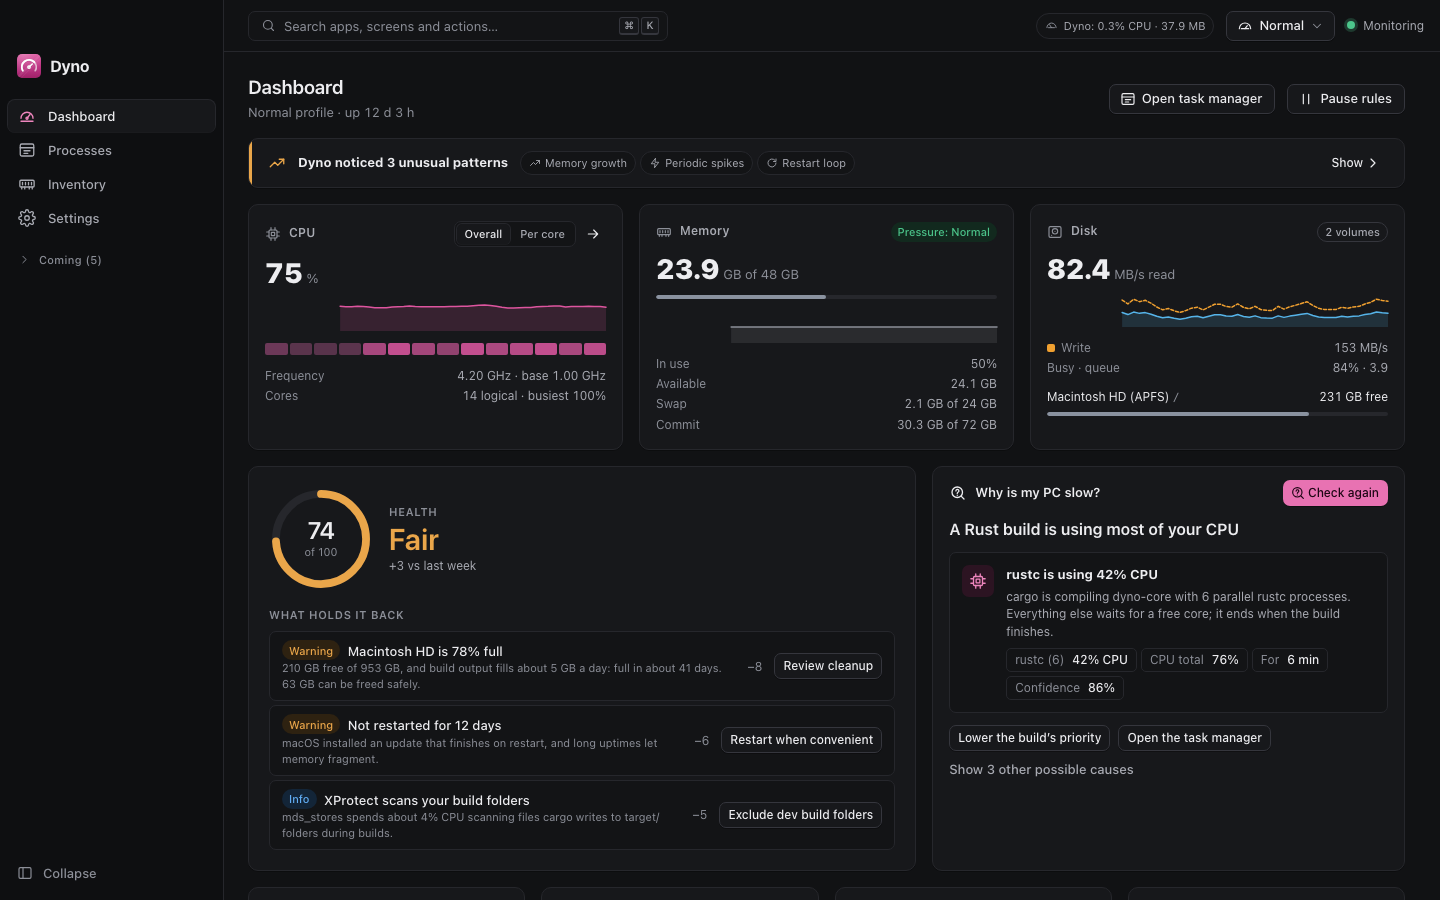
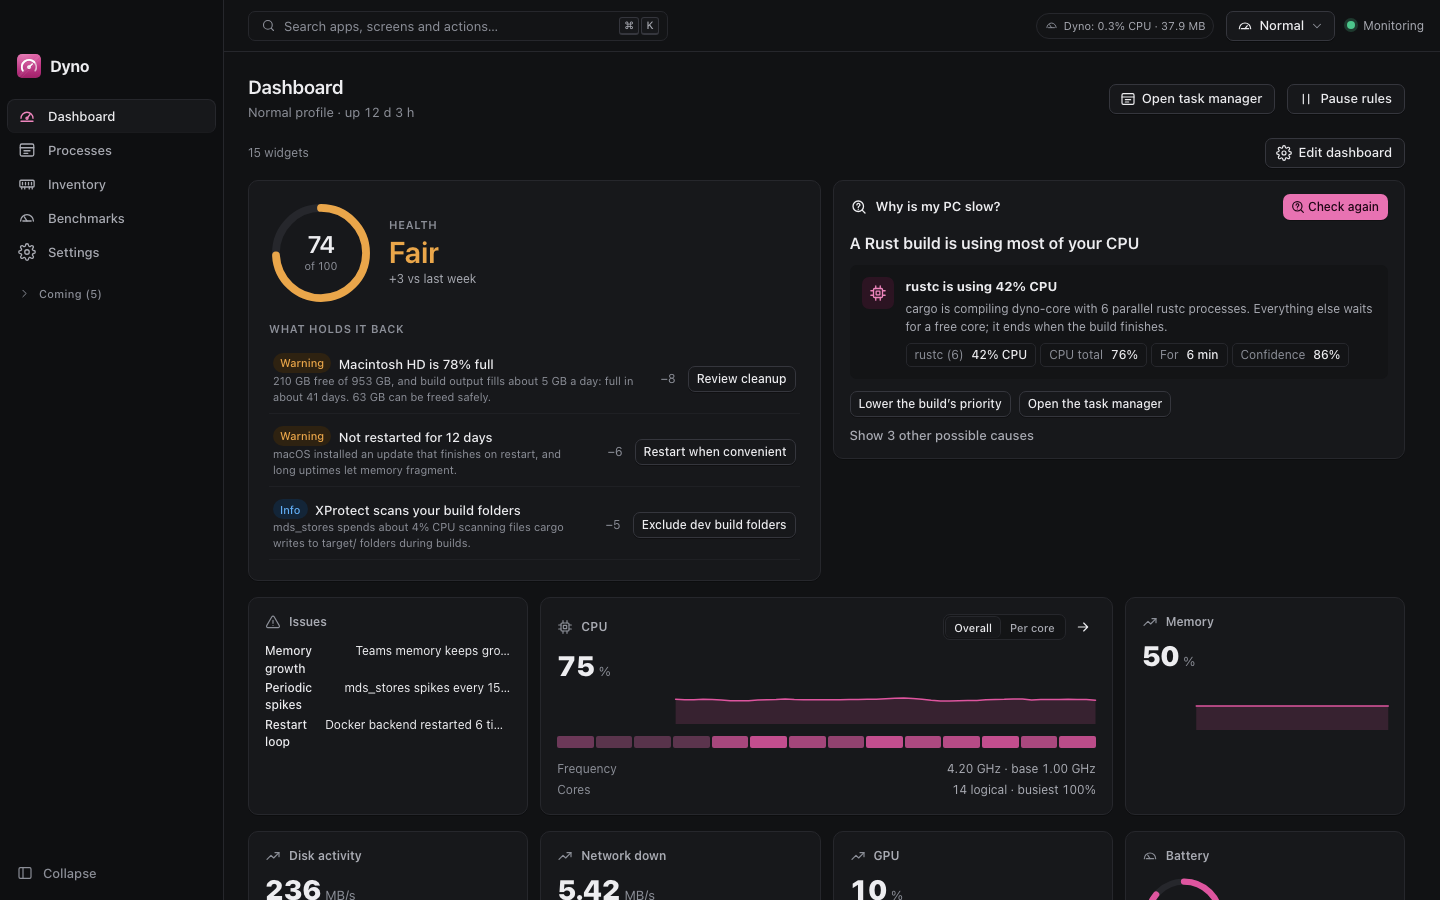
fix(ui): own-card widgets keep their semantics; health widget shows its reasons from medium up

diff --git a/apps/dyno/app/src/app/features/widgets/widget-view.ts b/apps/dyno/app/src/app/features/widgets/widget-view.ts
@@ -11,6 +11,7 @@ import { LiveStore } from '../../state/live.store';
 import { ANOMALY_LABEL } from '../../shared/labels';
 import type { Widget, WidgetKind } from '../../core/api.types';
 import { AnimatedNumber } from './animated-number';
+import { HealthHero } from '../dashboard/health-hero';
 import { CpuTile } from '../dashboard/tiles';
 import { DiagnosisCard } from '../dashboard/diagnosis-card';
 import { EventsFeed } from '../dashboard/events-feed';
@@ -41,9 +42,9 @@ const ICON: Record<WidgetKind, IconName> = {
  */
 @Component({
   selector: 'dy-widget',
-  imports: [Icon, Ring, Sparkline, AnimatedNumber, CpuTile, DiagnosisCard, EventsFeed, HistoryPanel, ConsumersPanel, DiskTrendPanel],
+  imports: [Icon, Ring, Sparkline, AnimatedNumber, HealthHero, CpuTile, DiagnosisCard, EventsFeed, HistoryPanel, ConsumersPanel, DiskTrendPanel],
   changeDetection: ChangeDetectionStrategy.OnPush,
-  host: { role: 'group', '[attr.aria-label]': 'title()', '[attr.data-kind]': 'widget().kind', '[class.own-card]': 'ownCard()' },
+  host: { '[attr.role]': 'ownCard() ? null : "group"', '[attr.aria-label]': 'ownCard() ? null : title()', '[attr.data-kind]': 'widget().kind', '[class.own-card]': 'ownCard()' },
   template: `
     @if (!ownCard()) {
     <header>
@@ -115,6 +116,9 @@ const ICON: Record<WidgetKind, IconName> = {
       @case ('consumers') { <dy-consumers-panel /> }
       @case ('diskTrend') { <dy-disk-trend-panel /> }
       @case ('health') {
+        @if (widget().size !== 's') {
+          <dy-health-hero />
+        } @else {
         @if (health.report(); as r) {
           <div class="ringrow">
             <dy-ring [value]="r.score" [tone]="gradeTone()" [label]="'Health score ' + r.score" style="--ring-size: 84px"><span class="rn num">{{ round(r.score) }}</span></dy-ring>
@@ -122,6 +126,7 @@ const ICON: Record<WidgetKind, IconName> = {
           </div>
         } @else {
           <p class="note">{{ health.reportError()?.message ?? 'Reading the health score…' }}</p>
+        }
         }
       }
     }
@@ -158,7 +163,7 @@ export class WidgetView {
 
   protected readonly title = computed(() => (this.widget().kind === 'topProcesses' ? `Top apps by ${metricLabel(this.widget().metric).toLowerCase()}` : PANEL_KINDS.includes(this.widget().kind) ? KIND_LABEL[this.widget().kind] : metricLabel(this.widget().metric)));
   /** The panel kinds are cards of their own (they bring header, loading and error states). */
-  protected readonly ownCard = computed(() => ['cpu', 'diagnosis', 'events', 'history', 'consumers', 'diskTrend'].includes(this.widget().kind));
+  protected readonly ownCard = computed(() => ['cpu', 'diagnosis', 'events', 'history', 'consumers', 'diskTrend'].includes(this.widget().kind) || (this.widget().kind === 'health' && this.widget().size !== 's'));
   protected readonly icon = computed(() => ICON[this.widget().kind]);
   protected readonly reading = computed(() => readMetric(this.widget().metric, this.live.system()));
   protected readonly percent = computed(() => this.reading().percent !== null);

diff --git a/apps/dyno/app/src/app/features/widgets/widgets-ui.spec.ts b/apps/dyno/app/src/app/features/widgets/widgets-ui.spec.ts
@@ -69,19 +69,19 @@ describe('dy-widget-board', () => {
     const f = TestBed.createComponent(WidgetBoard);
     f.detectChanges();
     const el = f.nativeElement as HTMLElement;
-    expect(el.querySelectorAll('dy-widget')).toHaveLength(16);
+    expect(el.querySelectorAll('dy-widget')).toHaveLength(15);
     [...el.querySelectorAll('button')].find((b) => b.textContent?.includes('Edit dashboard'))!.click();
     f.detectChanges();
-    expect(el.querySelectorAll('.edit').length).toBe(16);
+    expect(el.querySelectorAll('.edit').length).toBe(15);
     [...el.querySelectorAll('button')].find((b) => b.textContent?.includes('Add widget'))!.click();
     f.detectChanges();
     expect(el.querySelectorAll('.gtile')).toHaveLength(14);
     (el.querySelectorAll('.gtile')[2] as HTMLButtonElement).click();
     f.detectChanges();
-    expect(el.querySelectorAll('dy-widget')).toHaveLength(17);
+    expect(el.querySelectorAll('dy-widget')).toHaveLength(16);
     (el.querySelector('button[aria-label="Remove widget"]') as HTMLButtonElement).click();
     f.detectChanges();
-    expect(el.querySelectorAll('dy-widget')).toHaveLength(16);
+    expect(el.querySelectorAll('dy-widget')).toHaveLength(15);
     (el.querySelectorAll('.seg button')[2] as HTMLButtonElement).click();
     f.detectChanges();
     expect(TestBed.inject(DashboardLayoutStore).dirty()).toBe(true);
@@ -103,10 +103,10 @@ describe('dy-widget-board presets', () => {
     f.detectChanges();
     (el.querySelector('button[aria-label="Remove widget"]') as HTMLButtonElement).click();
     f.detectChanges();
-    expect(el.querySelectorAll('dy-widget')).toHaveLength(15);
+    expect(el.querySelectorAll('dy-widget')).toHaveLength(14);
     click('Reset to default');
     f.detectChanges();
-    expect(el.querySelectorAll('dy-widget')).toHaveLength(16);
+    expect(el.querySelectorAll('dy-widget')).toHaveLength(15);
     (el.querySelector('button[aria-label="Remove widget"]') as HTMLButtonElement).click();
     f.detectChanges();
     click('Save as preset');
@@ -120,7 +120,7 @@ describe('dy-widget-board presets', () => {
     await f.whenStable();
     f.detectChanges();
     const presets = TestBed.inject(DashboardLayoutStore).presets();
-    expect(presets.find((p) => p.name === 'Lean')?.widgets).toHaveLength(15);
+    expect(presets.find((p) => p.name === 'Lean')?.widgets).toHaveLength(14);
     expect(el.querySelector('.edit')).toBeNull();
   });
 });

diff --git a/apps/dyno/app/e2e/flows.spec.ts b/apps/dyno/app/e2e/flows.spec.ts
@@ -53,7 +53,7 @@ test.describe('dashboard', () => {
   test('shows live tiles, history and the diagnosis on request', async ({ page }) => {
     await page.goto(url());
     await expect(page.getByRole('group', { name: 'CPU', exact: true })).toBeVisible();
-    await expect(page.getByRole('group', { name: 'Memory' })).toBeVisible();
+    await expect(page.getByRole('group', { name: 'Memory', exact: true })).toBeVisible();
     await expect(page.locator('dy-chart canvas').first()).toBeVisible();
     await page.getByRole('button', { name: 'Check now' }).click();
     await expect(page.getByText('A Rust build is using most of your CPU')).toBeVisible();
@@ -63,9 +63,9 @@ test.describe('dashboard', () => {
 
   test('a machine without a battery or sensors says so with the reason', async ({ page }) => {
     await page.goto(url('/', '&mock=desktop'));
-    const battery = page.getByRole('group', { name: 'Battery' });
-    await expect(battery.getByText('Not available on this PC')).toBeVisible();
-    await expect(battery.getByText('no battery')).toBeVisible();
+    const battery = page.getByRole('group', { name: 'Battery', exact: true });
+    await expect(battery.getByText('Not available').first()).toBeVisible();
+    await expect(battery.getByText(/no battery/i)).toBeVisible();
   });
 
   test('a failed request shows an inline error with Retry, and Retry recovers', async ({ page }) => {

diff --git a/apps/dyno/app/src/app/state/dashboard-layout.store.spec.ts b/apps/dyno/app/src/app/state/dashboard-layout.store.spec.ts
@@ -14,7 +14,7 @@ async function setup() {
 describe('DashboardLayoutStore', () => {
   it('shows the saved layout and edits a draft until saved', async () => {
     const { store, settings } = await setup();
-    expect(store.widgets().length).toBe(16);
+    expect(store.widgets().length).toBe(15);
     expect(store.editing()).toBe(false);
     store.startEdit();
     store.add('bars', 'swap');
@@ -23,7 +23,7 @@ describe('DashboardLayoutStore', () => {
     store.move(0, 2);
     expect(store.dirty()).toBe(true);
     expect(store.widgets().find((w) => w.id === 'cpu')!.size).toBe('l');
-    expect(settings.settings()!.dashboard!.widgets.length).toBe(16);
+    expect(settings.settings()!.dashboard!.widgets.length).toBe(15);
     expect(await store.save()).toBe(true);
     expect(store.editing()).toBe(false);
     expect(settings.settings()!.dashboard!.widgets.some((w) => w.kind === 'bars')).toBe(true);
@@ -63,7 +63,7 @@ describe('DashboardLayoutStore', () => {
     const { store } = await setup();
     store.add('graph', 'cpuTotal');
     store.remove('cpu');
-    expect(store.widgets().length).toBe(16);
+    expect(store.widgets().length).toBe(15);
     expect(await store.save()).toBe(false);
   });
 

diff --git a/apps/dyno/app/src/app/core/mock/widget-presets.ts b/apps/dyno/app/src/app/core/mock/widget-presets.ts
@@ -14,7 +14,7 @@ const w = (id: string, kind: WidgetKind, metric: WidgetMetric, size: WidgetSize,
 
 export const PRESET_WIDGETS: Record<string, Widget[]> = {
   overview: [
-    w('health', 'health', 'cpuTotal', 's'),
+    w('health', 'health', 'cpuTotal', 'm'),
     w('diagnosis', 'diagnosis', 'cpuTotal', 'm'),
     w('issues', 'issues', 'cpuTotal', 's'),
     w('cpu', 'cpu', 'cpuTotal', 'm'),
@@ -23,7 +23,6 @@ export const PRESET_WIDGETS: Record<string, Widget[]> = {
     w('network', 'graph', 'networkDown', 's'),
     w('gpu', 'graph', 'gpuLoad', 's'),
     w('battery', 'ring', 'battery', 's'),
-    w('temp', 'bigNumber', 'temperature', 's', [80, 92]),
     w('top-cpu', 'topProcesses', 'cpuTotal', 'm'),
     w('top-memory', 'topProcesses', 'memory', 'm'),
     w('events', 'events', 'cpuTotal', 'm'),

diff --git a/apps/dyno/crates/dyno-core/src/widgets.rs b/apps/dyno/crates/dyno-core/src/widgets.rs
@@ -405,7 +405,7 @@ impl Preset {
             // What the fixed dashboard used to show, as widgets: the verdict first, then the live tiles, the busiest apps,
             // what happened and the history.
             Preset::Overview => vec![
-                w("health", K::Health, M::CpuTotal, S),
+                w("health", K::Health, M::CpuTotal, Md),
                 w("diagnosis", K::Diagnosis, M::CpuTotal, Md),
                 w("issues", K::Issues, M::CpuTotal, S),
                 w("cpu", K::Cpu, M::CpuTotal, Md),
@@ -414,7 +414,6 @@ impl Preset {
                 w("network", K::Graph, M::NetworkDown, S),
                 w("gpu", K::Graph, M::GpuLoad, S),
                 w("battery", K::Ring, M::Battery, S),
-                hot(w("temp", K::BigNumber, M::Temperature, S), 80.0, 92.0),
                 w("top-cpu", K::TopProcesses, M::CpuTotal, Md),
                 w("top-memory", K::TopProcesses, M::Memory, Md),
                 w("events", K::Events, M::CpuTotal, Md),
@@ -839,7 +838,21 @@ mod tests {
     #[test]
     fn the_overview_recreates_the_old_fixed_dashboard() {
         let ids: Vec<String> = Preset::Overview.widgets().into_iter().map(|w| w.id).collect();
-        for needed in ["health", "diagnosis", "issues", "cpu", "memory", "disk", "network", "gpu", "battery", "top-cpu", "top-memory", "events", "history"] {
+        for needed in [
+            "health",
+            "diagnosis",
+            "issues",
+            "cpu",
+            "memory",
+            "disk",
+            "network",
+            "gpu",
+            "battery",
+            "top-cpu",
+            "top-memory",
+            "events",
+            "history",
+        ] {
             assert!(ids.iter().any(|i| i == needed), "the overview lacks {needed}");
         }
         for kind in ["cpu", "diagnosis", "events", "history", "consumers", "diskTrend"] {
